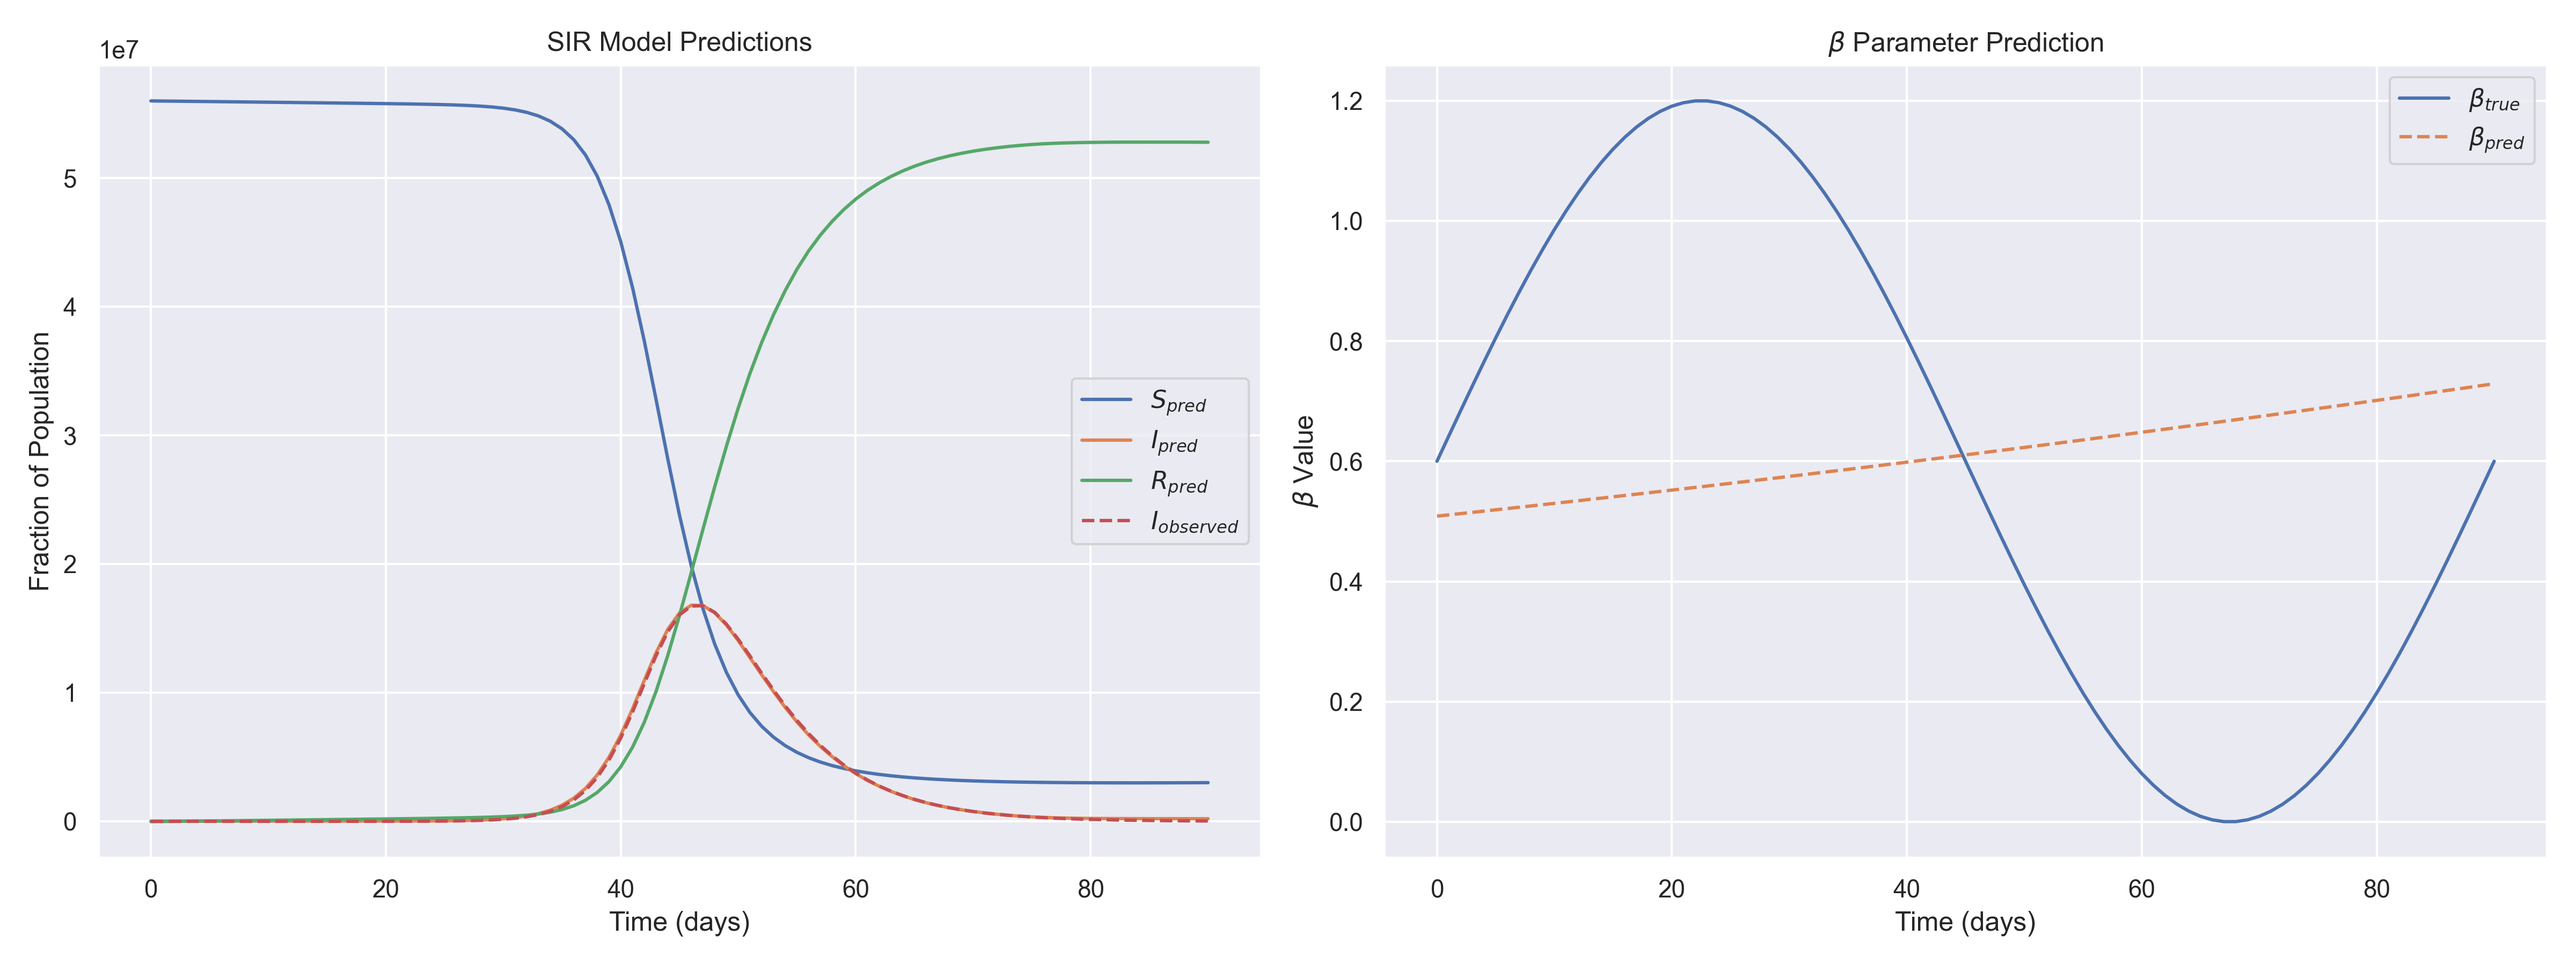
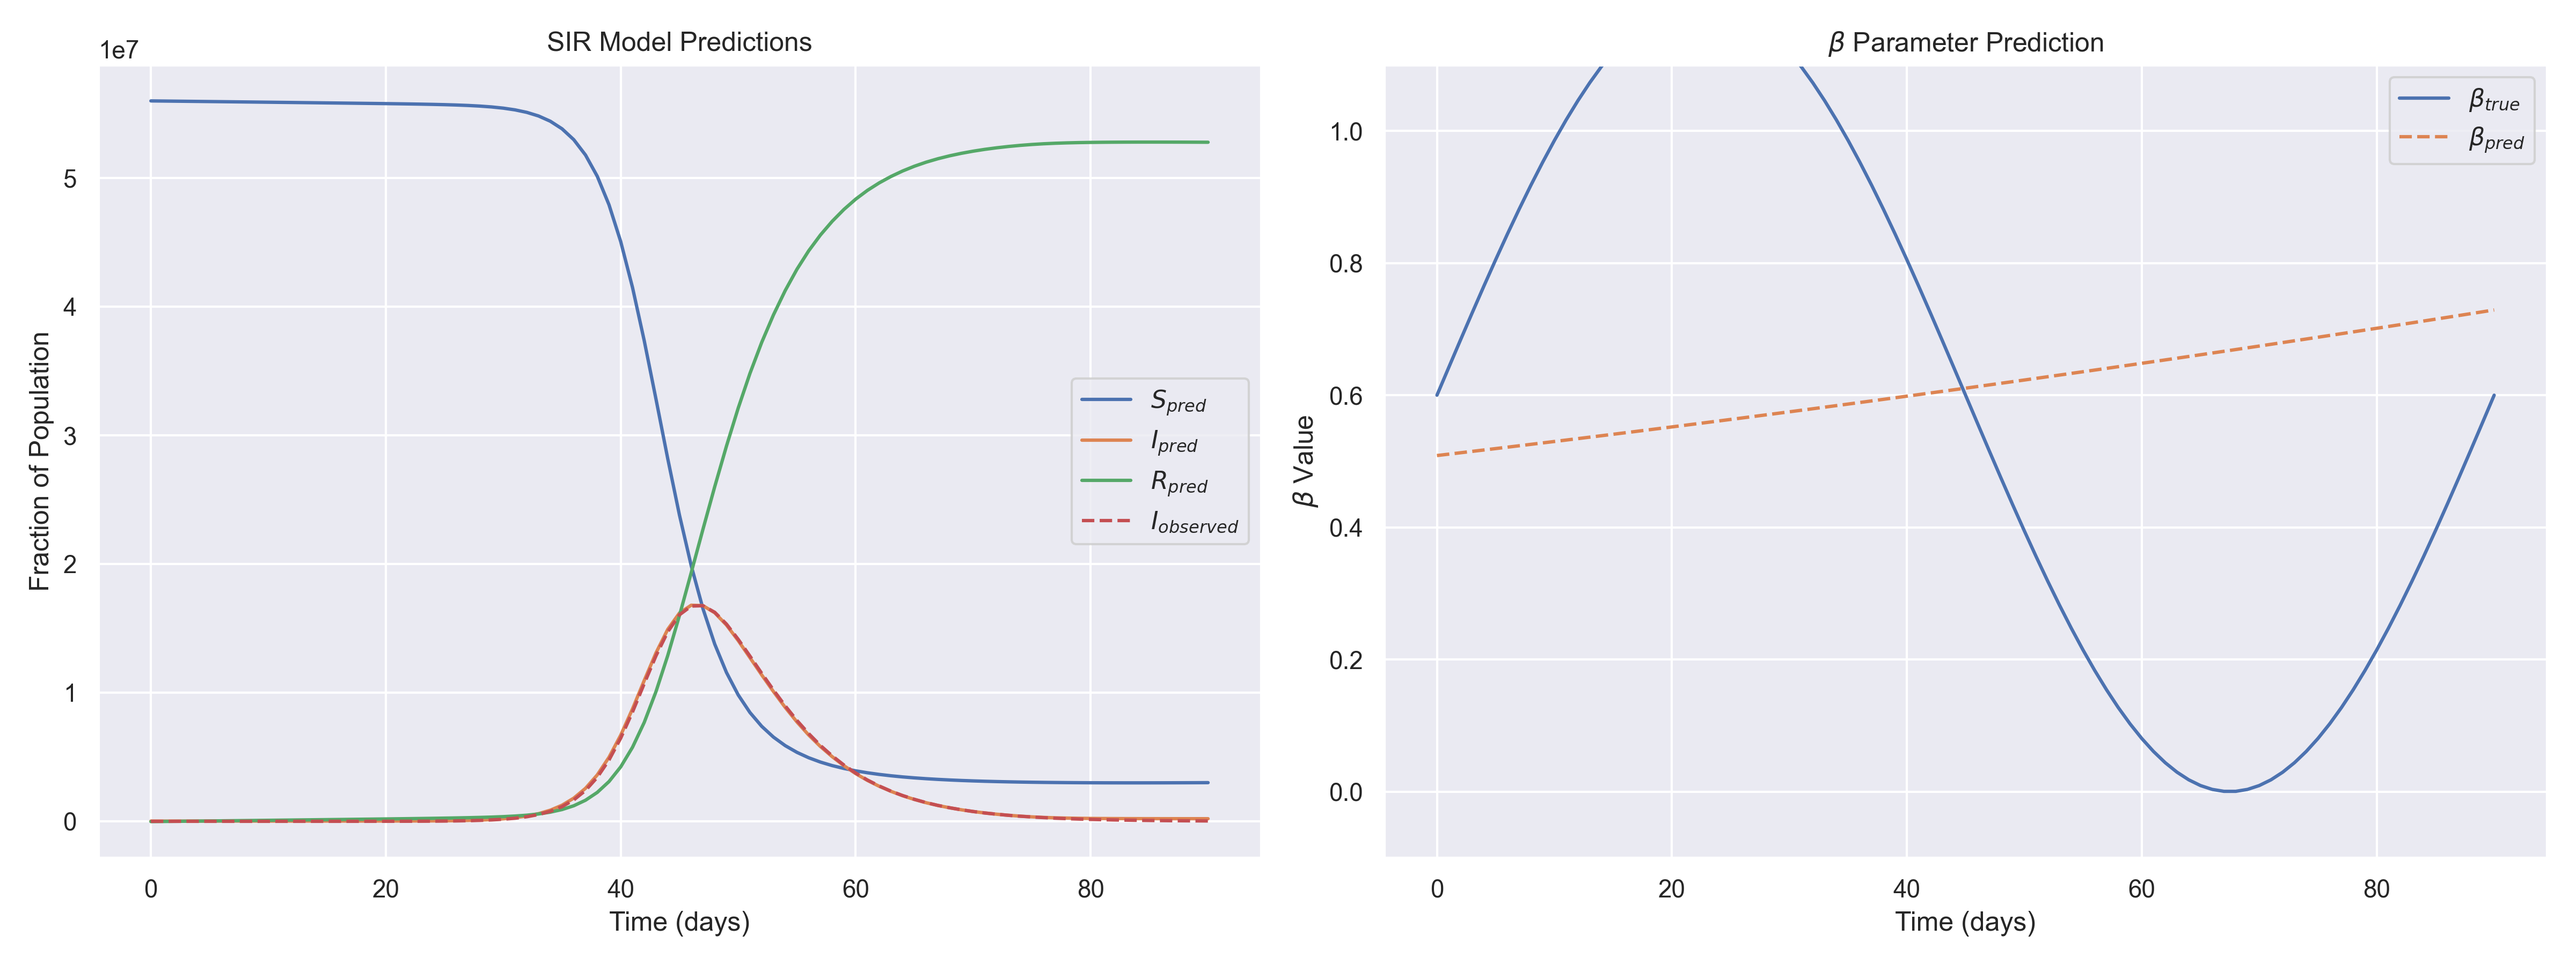
chore: improve predictions flow

diff --git a/examples/sir_inverse/sir_inverse_example.py b/examples/sir_inverse/sir_inverse_example.py
@@ -19,7 +19,7 @@ import seaborn as sns
 import torch
 from torch import Tensor
 
-from pinn.core import LOSS_KEY, MLPConfig
+from pinn.core import LOSS_KEY, MLPConfig, Predictions
 from pinn.lightning import (
     DataConfig,
     PINNModule,
@@ -30,13 +30,13 @@ from pinn.lightning import (
 from pinn.lightning.callbacks import FormattedProgressBar, Metric, PredictionsWriter
 from pinn.problems import (
     Domain1D,
+    LinearScaler,
     SIRInvDataModule,
     SIRInvHyperparameters,
     SIRInvProblem,
     SIRInvProperties,
 )
-from pinn.problems.ode import LinearScaler
-from pinn.problems.sir_inverse import BETA_KEY
+from pinn.problems.sir_inverse import BETA_KEY, I_KEY, S_KEY
 
 
 def create_dir(dir: Path) -> Path:
@@ -117,9 +117,10 @@ def execute(
     def on_prediction(
         _trainer: Trainer,
         _module: LightningModule,
-        predictions: dict[str, Tensor],
+        predictions_list: Sequence[Predictions],
         _batch_indices: Sequence[Any],
     ) -> None:
+        predictions = predictions_list[0]
         save_predictions(predictions, config.predictions_dir / "predictions.csv", props)
         plot_predictions(predictions, config.predictions_dir / "predictions.png", props)
 
@@ -184,17 +185,18 @@ def execute(
 
 
 def plot_predictions(
-    predictions: dict[str, Tensor],
+    predictions: Predictions,
     predictions_file: Path,
     props: SIRInvProperties,
 ) -> Figure:
-    t_data = predictions["x_data"]
-    I_data = predictions["y_data"]
-    S_pred = predictions["S"]
-    I_pred = predictions["I"]
+    batch, preds = predictions
+    t_data, I_data = batch
+
+    S_pred = preds["S"]
+    I_pred = preds["I"]
     R_pred = props.N - S_pred - I_pred
 
-    beta_pred = predictions[BETA_KEY]
+    beta_pred = preds[BETA_KEY]
     beta_true = beta_fn(t_data)
 
     sns.set_theme(style="darkgrid")
@@ -215,7 +217,7 @@ def plot_predictions(
     sns.lineplot(x=t_data, y=beta_true, label=r"$\beta_{true}$", ax=axes[1])
     sns.lineplot(x=t_data, y=beta_pred, label=r"$\beta_{pred}$", linestyle="--", ax=axes[1])
 
-    axes[1].set_ylim(0, 1)
+    axes[1].set_ylim(-0.1, 1.1)
     axes[1].set_title(r"$\beta$ Parameter Prediction")
     axes[1].set_xlabel("Time (days)")
     axes[1].set_ylabel(r"$\beta$ Value")
@@ -228,18 +230,19 @@ def plot_predictions(
 
 
 def save_predictions(
-    predictions: dict[str, Tensor],
+    predictions: Predictions,
     predictions_file: Path,
     props: SIRInvProperties,
 ) -> pd.DataFrame:
-    t_data = predictions["x_data"]
-    I_data = predictions["y_data"]
-    S_pred = predictions["S"]
-    I_pred = predictions["I"]
+    batch, preds = predictions
+    t_data, I_data = batch
+
+    S_pred = preds[S_KEY]
+    I_pred = preds[I_KEY]
     R_pred = props.N - S_pred - I_pred
 
     beta_true = beta_fn(t_data)
-    beta_pred = predictions[BETA_KEY]
+    beta_pred = preds[BETA_KEY]
 
     df = pd.DataFrame(
         {

diff --git a/src/pinn/core/core.py b/src/pinn/core/core.py
@@ -10,6 +10,8 @@ import torch.nn as nn
 
 from pinn.core.dataset import DataBatch, PINNBatch
 
+LOSS_KEY = "loss"
+
 Activations = Literal[
     "tanh",
     "relu",
@@ -19,6 +21,22 @@ Activations = Literal[
     "softplus",
     "identity",
 ]
+
+
+Predictions = tuple[DataBatch, dict[str, Tensor]]
+
+
+class LogFn(Protocol):
+    """
+    A function that logs a value to a dictionary.
+
+    Args:
+        name: The name to log the value under.
+        value: The value to log.
+        progress_bar: Whether the value should be logged to the progress bar.
+    """
+
+    def __call__(self, name: str, value: Tensor, progress_bar: bool = False) -> None: ...
 
 
 def get_activation(name: Activations) -> nn.Module:
@@ -35,22 +53,6 @@ def get_activation(name: Activations) -> nn.Module:
 
 def identity(x: Tensor) -> Tensor:
     return x
-
-
-class LogFn(Protocol):
-    """
-    A function that logs a value to a dictionary.
-
-    Args:
-        name: The name to log the value under.
-        value: The value to log.
-        progress_bar: Whether the value should be logged to the progress bar.
-    """
-
-    def __call__(self, name: str, value: Tensor, progress_bar: bool = False) -> None: ...
-
-
-LOSS_KEY: str = "loss"
 
 
 @dataclass
@@ -284,25 +286,24 @@ class Problem(nn.Module):
 
         return total
 
-    def predict(self, batch: DataBatch) -> dict[str, Tensor]:
-        # TODO: consider removing the batch from the results, as it is not formally a result
+    def predict(self, batch: DataBatch) -> Predictions:
         x_data, y_data = batch
 
         inverse_domain = self.scaler.inverse_domain if self.scaler is not None else identity
         inverse_values = self.scaler.inverse_values if self.scaler is not None else identity
 
-        results = {
-            "x_data": inverse_domain(x_data).squeeze(-1),
-            "y_data": inverse_values(y_data).squeeze(-1),
-        }
+        batch = (
+            inverse_domain(x_data).squeeze(-1),
+            inverse_values(y_data).squeeze(-1),
+        )
 
+        results = {}
         for field in self.fields:
             results[field.name] = inverse_values(field(x_data)).squeeze(-1)
 
         # params will transform x_data again under the hood
         x_data = inverse_domain(x_data)
-
         for param in self.params:
             results[param.name] = param(x_data).squeeze(-1)
 
-        return results
+        return batch, results

diff --git a/src/pinn/lightning/callbacks.py b/src/pinn/lightning/callbacks.py
@@ -7,8 +7,8 @@ from typing import Any, Literal, TypeAlias, override
 from lightning.pytorch import LightningModule, Trainer
 from lightning.pytorch.callbacks import BasePredictionWriter, Callback, TQDMProgressBar
 import torch
-from torch import Tensor
 
+from pinn.core import Predictions
 from pinn.lightning.module import SMMAStoppingConfig
 
 SMMA_KEY = "loss/smma"
@@ -109,7 +109,9 @@ class FormattedProgressBar(TQDMProgressBar):
         return items
 
 
-HookFn: TypeAlias = Callable[[Trainer, LightningModule, dict[str, Tensor], Sequence[Any]], None]
+HookFn: TypeAlias = Callable[
+    [Trainer, LightningModule, Sequence[Predictions], Sequence[Any]], None
+]
 
 
 class PredictionsWriter(BasePredictionWriter):
@@ -130,15 +132,14 @@ class PredictionsWriter(BasePredictionWriter):
         self,
         trainer: Trainer,
         module: LightningModule,
-        predictions_list: Sequence[Any],
+        predictions_list: Sequence[Predictions],
         batch_indices: Sequence[Any],
     ) -> None:
-        predictions = predictions_list[0]
-
         if self.on_prediction is not None:
-            self.on_prediction(trainer, module, predictions, batch_indices)
+            self.on_prediction(trainer, module, predictions_list, batch_indices)
 
         if self.predictions_path is not None:
-            torch.save(predictions, self.predictions_path)
+            torch.save(predictions_list, self.predictions_path)
+
         if self.batch_indices_path is not None:
             torch.save(batch_indices, self.batch_indices_path)

diff --git a/src/pinn/lightning/module.py b/src/pinn/lightning/module.py
@@ -9,7 +9,16 @@ from lightning.pytorch.utilities.types import OptimizerLRScheduler
 import torch
 from torch import Tensor
 
-from pinn.core import LOSS_KEY, DataBatch, LogFn, MLPConfig, PINNBatch, Problem, ScalarConfig
+from pinn.core import (
+    LOSS_KEY,
+    DataBatch,
+    LogFn,
+    MLPConfig,
+    PINNBatch,
+    Predictions,
+    Problem,
+    ScalarConfig,
+)
 
 
 @dataclass(kw_only=True)
@@ -96,7 +105,7 @@ class PINNModule(pl.LightningModule):
         return self.problem.total_loss(batch, self._log)
 
     @override
-    def predict_step(self, batch: DataBatch, batch_idx: int) -> dict[str, Tensor]:
+    def predict_step(self, batch: DataBatch, batch_idx: int) -> Predictions:
         return self.problem.predict(batch)
 
     @override

diff --git a/src/pinn/core/__init__.py b/src/pinn/core/__init__.py
@@ -7,9 +7,12 @@ from pinn.core.core import (
     Argument,
     Constraint,
     Field,
+    FieldsRegistry,
     LogFn,
     MLPConfig,
     Parameter,
+    ParamsRegistry,
+    Predictions,
     Problem,
     ScalarConfig,
     Scaler,
@@ -25,12 +28,15 @@ __all__ = [
     "Constraint",
     "DataBatch",
     "Field",
+    "FieldsRegistry",
     "LogFn",
     "MLPConfig",
     "PINNBatch",
     "PINNDataModule",
     "PINNDataset",
     "Parameter",
+    "ParamsRegistry",
+    "Predictions",
     "Problem",
     "ScalarConfig",
     "Scaler",

diff --git a/src/pinn/problems/sir_inverse.py b/src/pinn/problems/sir_inverse.py
@@ -9,8 +9,17 @@ from torch import Tensor
 import torch.nn as nn
 from torch.utils.data import Dataset
 
-from pinn.core import Argument, Constraint, Field, Parameter, PINNDataModule, PINNDataset, Problem
-from pinn.core.core import ArgsRegistry, FieldsRegistry
+from pinn.core import (
+    ArgsRegistry,
+    Argument,
+    Constraint,
+    Field,
+    FieldsRegistry,
+    Parameter,
+    PINNDataModule,
+    PINNDataset,
+    Problem,
+)
 from pinn.lightning import PINNHyperparameters
 from pinn.problems.ode import (
     DataConstraint,

diff --git a/src/pinn/problems/__init__.py b/src/pinn/problems/__init__.py
@@ -1,6 +1,6 @@
 """Problem templates and implementations."""
 
-from pinn.problems.ode import Domain1D, ODECallable, ODEDataset, ODEProperties
+from pinn.problems.ode import Domain1D, LinearScaler, ODECallable, ODEDataset, ODEProperties
 from pinn.problems.sir_inverse import (
     SIR,
     SIRInvCollocationset,
@@ -13,6 +13,7 @@ from pinn.problems.sir_inverse import (
 __all__ = [
     "SIR",
     "Domain1D",
+    "LinearScaler",
     "ODECallable",
     "ODEDataset",
     "ODEDataset",

diff --git a/src/pinn/problems/ode.py b/src/pinn/problems/ode.py
@@ -14,12 +14,12 @@ from pinn.core import (
     Constraint,
     DataBatch,
     Field,
+    FieldsRegistry,
     LogFn,
     Parameter,
     PINNBatch,
     Scaler,
 )
-from pinn.core.core import FieldsRegistry
 from pinn.lightning import IngestionConfig, PINNHyperparameters
 
 ODECallable = Callable[[Tensor, Tensor, ArgsRegistry], Tensor]
